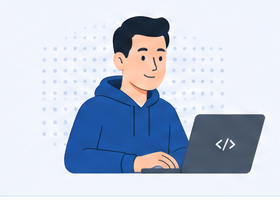
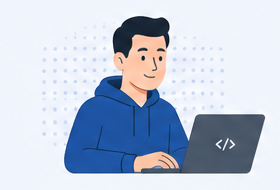
hovers and responsivnesses on skill section

diff --git a/style.css b/style.css
@@ -193,7 +193,7 @@ a {
 .headline-text {
   color: var(--blue);
   font-weight: 600;
-  font-size: 18px;
+  font-size: 20px;
   margin-bottom: 20px;
 }
 
@@ -450,7 +450,7 @@ a {
 .catagory:hover {
   color: var(--white);
   background-color: var(--navy);
-  box-shadow: 3px 3px 8px rgba(0, 0, 0, 0.308);
+  box-shadow: 2px 2px 10px rgba(126, 125, 125, 0.3);
 }
 .selectd-works {
   display: grid;
@@ -568,6 +568,7 @@ a {
 .skill-section {
   padding: 0px 30px;
   margin-top: 30px;
+  scroll-margin-top: 70px;
 }
 .skill-text {
   font-size: 100px;
@@ -579,7 +580,7 @@ a {
 .skills-container {
   display: grid;
   grid-template-columns: 1fr 1fr;
-  gap: 10px;
+  gap: 15px;
 }
 .skill {
   color: var(--navy);
@@ -591,6 +592,10 @@ a {
   align-items: center;
   justify-content: center;
   gap: 10px;
+  transition: transform 0.3s ease;
+}
+.skill:hover{
+  transform: scale(1.08);
 }
 .skill-title {
   font-size: 17px;
@@ -599,37 +604,99 @@ a {
 .img-skill {
   width: 60px;
 }
-.skill-section-footer{
-  background-color: var(--blue-light);
-}
-.skill-section-footer{
+
+.skill-section-footer {
   display: grid;
-  grid-template-columns: 1fr 1fr;
+  grid-template-columns: 280px 1fr;
   align-items: center;
+  justify-content: center;
   gap: 10px;
+  max-width: 1000px;
+  overflow: hidden;
   margin-top: 15px;
+  background-color: var(--blue-light);
+  padding: 15px 10px;
 }
-.like-text{
+.img-avatar{
+  width: 100%;
+}
+.additional-info-container{
+}
+.like-text {
   font-size: 20px;
   color: var(--navy);
   font-weight: 600;
   margin-bottom: 10px;
 }
-.enjoy-text{
+.enjoy-text {
   font-size: 17px;
-  margin-bottom:15px;
+  margin-bottom: 15px;
   color: var(--text-secondary);
   line-height: 25px;
 }
-.project-linker{
+.project-linker {
   background-color: rgb(43, 89, 158);
   color: var(--white);
   font-weight: 500;
-  padding: 8px 5px;
-  width: 250px;
+  width: 210px;
+  height: 35px;
   font-size: 15px;
   border-radius: 20px;
   display: flex;
   align-items: center;
   justify-content: center;
+}
+.project-linker:hover{
+  background-color: var(--text);
+  box-shadow: 2px 2px 10px rgba(0, 0, 0, 0.15);
+}
+@media (min-width:1200px){
+    .skill-text{
+    font-size: 160px;
+  }
+}
+@media (min-width:992px){
+  .skill-section-footer{
+    margin: 15px auto 0px;
+    padding-right: 30px;
+  }
+    .skill-text{
+    font-size: 150px;
+  }
+  .additional-info-container{
+    display: flex;
+    gap: 10px;
+    align-items: center;
+    justify-content: space-between;
+  }
+  .like-text, .project-linker{
+    margin: 0px auto;
+  }
+}
+@media (min-width: 768px) {
+  .skill-text{
+    font-size: 130px;
+  }
+  .expertise-text{
+    margin-top: -40px;
+  }
+  .skills-container {
+    grid-template-columns: 1fr 1fr 1fr;
+  }
+  .skill-section-footer{
+    grid-template-columns: 250px 1fr;
+  }
+
+}
+
+@media (max-width: 600px) {
+  .skill-section-footer{
+    grid-template-columns: 200px 1fr;
+  }
+}
+
+@media (max-width: 515px) {
+  .skill-section-footer{
+    grid-template-columns: 150px 1fr;
+  }
 }

diff --git a/index.html b/index.html
@@ -251,7 +251,7 @@
       <div class="skill">
         <img src="images/icons/skills/javascript.svg" alt="" class="img-skill">
         <p class="skill-title">Javascript</p>
-      </div>    
+      </div>
     </div>
     <div class="skill-section-footer">
       <img src="images/avatars/developer_avatar_skills_page.png" alt="" class="img-avatar">
@@ -265,9 +265,9 @@
           </p>
         </div>
         <a href="#project-section" class="project-linker">
-              View my projects
-              <img class="img-arrow linker" src="images/icons/arrow-up-right-svgrepo-com.svg" alt="">
-            </a>
+          View my projects
+          <img class="img-arrow linker" src="images/icons/arrow-up-right-svgrepo-com.svg" alt="">
+        </a>
       </div>
     </div>
   </div>
